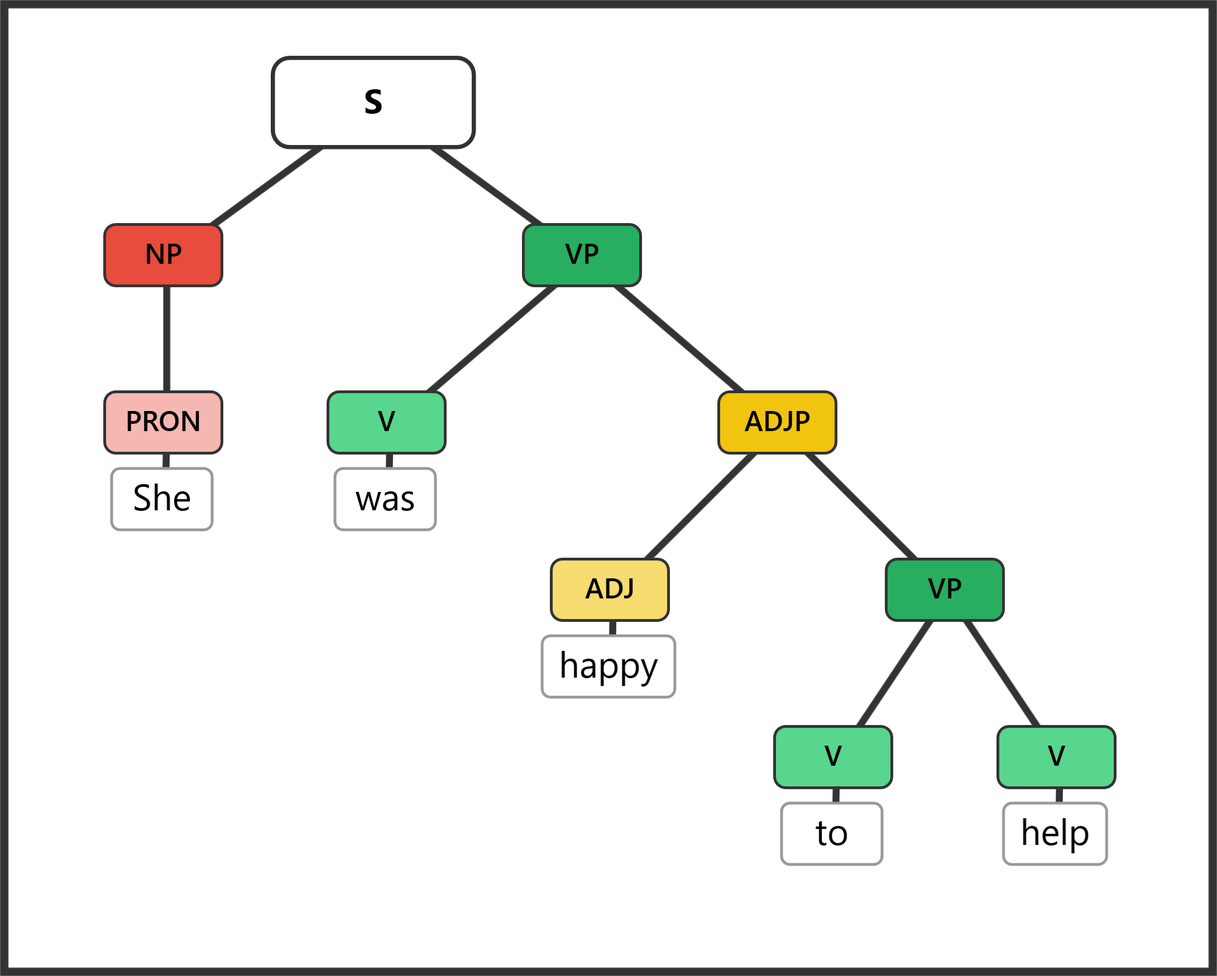
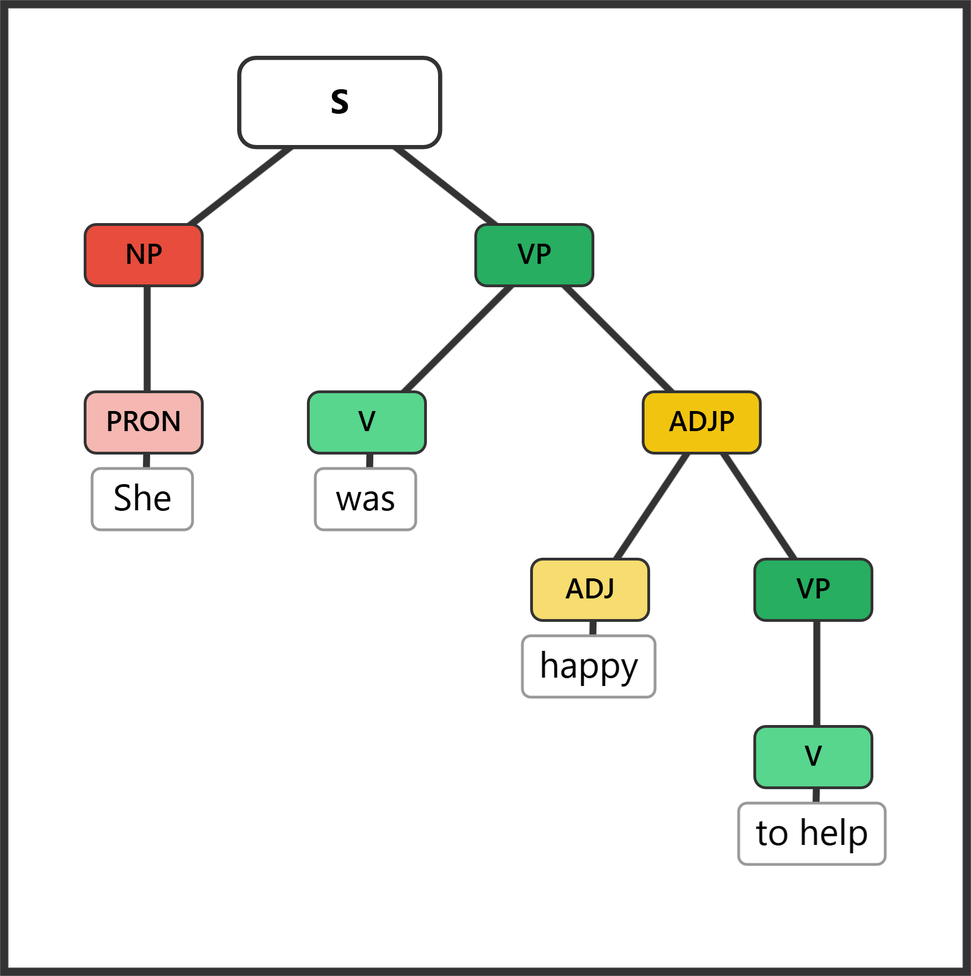
Treat infinitive "to V" as single V unit; flatten 12.10.1 B nested S
- All infinitive brackets: [V to] [V run] → [V to run] (4 tables + 2 trees)
- Updated sec-127 explanatory text to match single-unit convention
- ch12_table_019: Direct Object column shifted from 5→4
- ch12_table_010 (12.10.1 B): removed nested [S ...], flattened to
  [S [ADVP] [NP] [VP]] with roles at level 0

diff --git a/docs/lunr-pretext-search-index.js b/docs/lunr-pretext-search-index.js
@@ -1726,7 +1726,7 @@ var ptx_lunr_docs = [
   "type": "Section",
   "number": "12.2",
   "title": "Structures That Function as Adverbials",
-  "body": " Structures That Function as Adverbials  One of the most important insights of the form-vs-function framework is that a single grammatical role can be filled by many different structural forms. The adverbial function is a prime example. Consider three sentences: She arrived quickly.  She arrived at noon.  She arrived when the bell rang. In all three, the final element answers the same question—how or when she arrived—and all three occupy the adverbial slot in the clause. But their forms are completely different: an adverb phrase, a prepositional phrase, and a dependent clause. The seven structures listed below are all legitimate adverbials in English.   1. Adverb Phrases   The prototypical adverbial is an adverb phrase—a single adverb or an adverb with a degree modifier. Adverb phrases typically express manner ( quietly ), time ( soon ), frequency ( often ), or degree ( very ). Because adverbs are the form class most closely associated with the adverbial function, students sometimes assume that only adverbs can be adverbials. The rest of this section shows why that assumption is far too narrow. Adverb phrases can also be modified by degree words to create multi-word phrases: very carefully , quite often , remarkably quickly .   She spoke quietly . (manner)  He arrived very late . (time)  They finished remarkably quickly . (manner)    Multi-level labeling table for \"She ran quickly\"    Syntax tree for \"She ran quickly\" showing an AdvP adverbial attached to the VP   [S [NP [PRON She]] [VP [V ran] [ADVP [ADV quickly]]]]   2. Prepositional Phrases   Prepositional phrases are the most versatile adverbial form, capable of filling nearly every semantic role—place, time, manner, reason, purpose, and more. A preposition links a noun phrase to the rest of the clause, and the resulting PP slots into the verb phrase as an adverbial modifier. Because English has dozens of prepositions, each selecting for different meanings, PPs are by far the most common adverbial structure in both speech and writing. When you see a PP inside a verb phrase that is not a complement required by the verb, it is almost certainly functioning as an adverbial.   She works in the city . (place)  He arrived at noon . (time)  They spoke with enthusiasm . (manner)    Multi-level labeling table for \"He works in the city\"    Syntax tree for \"He works in the city\" showing a PP place adverbial inside the VP   [S [NP [PRON He]] [VP [V works] [PP [PREP in] [NP [DET the] [N city]]]]]   3. Noun Phrases (Temporal\/Spatial)   Certain noun phrases function adverbially without a preposition, especially those indicating time, direction, or extent. Expressions like yesterday , last week , and every morning occupy the adverbial slot even though their form is nominal. This can be surprising: a noun phrase is filling a modifier role rather than a subject or object role. The pattern is limited mainly to temporal and directional expressions—you cannot say She spoke the library to mean \"at the library\"—but within that domain it is extremely common in everyday English.   She arrived yesterday . (time)  They met last week . (time)  The bird flew north . (direction)    Multi-level labeling table for \"sleep every day\"    Syntax tree for \"I sleep every day\" showing noun phrase as adverbial   [S [NP [PRON I]] [VP [V sleep] [NP [DET every] [N day]]]]   4. Infinitive Phrases   Infinitive phrases can function as adverbials, and when they do, they almost always express purpose—answering the question why? or for what reason? The marker to followed by the base form of a verb creates a non-finite clause that modifies the main verb. Adverbial infinitives can appear in final position ( She left early to catch the train ) or in initial position for emphasis ( To understand the problem, you must read the data ). Because infinitive phrases can also function as subjects or complements, identifying the adverbial use requires checking whether the infinitive answers a purpose question about the verb rather than filling a noun slot.   She came to help . (purpose)  He studied hard to pass the exam . (purpose)  To succeed , you must practice. (purpose)    Multi-level labeling table for \"went to run\"    Syntax tree for \"I went to run\" showing infinitive as adverbial   [S [NP [PRON I]] [VP [V went] [VP [V to] [V run]]]]   5. Participial Phrases   Participial phrases—built on present participles ( -ing ) or past participles ( -ed\/-en )—can function adverbially, typically expressing reason, time, or attendant circumstances. Unlike adverb phrases and PPs, participial adverbials are non-finite clauses: they contain a verb form but lack a tense marker and a grammatical subject. The understood subject is normally the subject of the main clause, which is why a mismatch produces a dangling modifier (covered in ). Participial adverbials appear most often in initial position, set off by a comma, and give writing a more formal or literary texture.   Knowing the answer , she raised her hand. (reason)  He left, having finished his work . (time\/reason)  Exhausted , she fell asleep. (reason)    Multi-level labeling table for \"left running\"    Syntax tree for \"I left running\" showing participle as adverbial   [S [NP [PRON I]] [VP [V left] [VP [V running]]]]   6. Conjunctive Adverbs   Conjunctive adverbs ( however, therefore, nevertheless, moreover ) function adverbially while also signaling a logical relationship between ideas. Despite their name, conjunctive adverbs are adverbs, not conjunctions—they modify the clause they appear in rather than grammatically joining two clauses the way a coordinating or subordinating conjunction does. When two independent clauses are linked by a conjunctive adverb, the clauses must be separated by a semicolon or a period; a comma alone produces a comma splice. Conjunctive adverbs are also mobile within their clause— however can appear at the beginning, middle, or end—which is a key test distinguishing them from true conjunctions. For a full treatment of how conjunctive adverbs interact with sentence structure and punctuation, see .   She was tired. However , she continued.  The evidence is strong. Therefore , we should proceed.    7. Adverbial Clauses   Entire dependent clauses introduced by subordinating conjunctions function as adverbials. An adverbial clause contains a subject, a verb, and often its own complements—it is a full clause, but the subordinating conjunction ( when, because, although, if, while, after ) marks it as dependent and signals its semantic role. Adverbial clauses can express time, reason, condition, concession, purpose, and result, making them the most semantically varied adverbial structure. They appear freely in initial position (followed by a comma) or final position (typically without a comma). Adverbial clauses are covered in detail in alongside other clause types. Here is a brief overview:   When the bell rang , students left. (time)  She succeeded because she worked hard . (reason)  Although it rained , we continued. (concession)  If you need help , call me. (condition)    Multi-level labeling table for \"When the class ended students left\"    Syntax tree for \"When the class ended, students left\" showing an adverb clause of time   [S [DC [SUB When] [NP [DET the] [N class]] [VP [V ended]]] [IC [NP [N students]] [VP [V left]]]]  "
+  "body": " Structures That Function as Adverbials  One of the most important insights of the form-vs-function framework is that a single grammatical role can be filled by many different structural forms. The adverbial function is a prime example. Consider three sentences: She arrived quickly.  She arrived at noon.  She arrived when the bell rang. In all three, the final element answers the same question—how or when she arrived—and all three occupy the adverbial slot in the clause. But their forms are completely different: an adverb phrase, a prepositional phrase, and a dependent clause. The seven structures listed below are all legitimate adverbials in English.   1. Adverb Phrases   The prototypical adverbial is an adverb phrase—a single adverb or an adverb with a degree modifier. Adverb phrases typically express manner ( quietly ), time ( soon ), frequency ( often ), or degree ( very ). Because adverbs are the form class most closely associated with the adverbial function, students sometimes assume that only adverbs can be adverbials. The rest of this section shows why that assumption is far too narrow. Adverb phrases can also be modified by degree words to create multi-word phrases: very carefully , quite often , remarkably quickly .   She spoke quietly . (manner)  He arrived very late . (time)  They finished remarkably quickly . (manner)    Multi-level labeling table for \"She ran quickly\"    Syntax tree for \"She ran quickly\" showing an AdvP adverbial attached to the VP   [S [NP [PRON She]] [VP [V ran] [ADVP [ADV quickly]]]]   2. Prepositional Phrases   Prepositional phrases are the most versatile adverbial form, capable of filling nearly every semantic role—place, time, manner, reason, purpose, and more. A preposition links a noun phrase to the rest of the clause, and the resulting PP slots into the verb phrase as an adverbial modifier. Because English has dozens of prepositions, each selecting for different meanings, PPs are by far the most common adverbial structure in both speech and writing. When you see a PP inside a verb phrase that is not a complement required by the verb, it is almost certainly functioning as an adverbial.   She works in the city . (place)  He arrived at noon . (time)  They spoke with enthusiasm . (manner)    Multi-level labeling table for \"He works in the city\"    Syntax tree for \"He works in the city\" showing a PP place adverbial inside the VP   [S [NP [PRON He]] [VP [V works] [PP [PREP in] [NP [DET the] [N city]]]]]   3. Noun Phrases (Temporal\/Spatial)   Certain noun phrases function adverbially without a preposition, especially those indicating time, direction, or extent. Expressions like yesterday , last week , and every morning occupy the adverbial slot even though their form is nominal. This can be surprising: a noun phrase is filling a modifier role rather than a subject or object role. The pattern is limited mainly to temporal and directional expressions—you cannot say She spoke the library to mean \"at the library\"—but within that domain it is extremely common in everyday English.   She arrived yesterday . (time)  They met last week . (time)  The bird flew north . (direction)    Multi-level labeling table for \"sleep every day\"    Syntax tree for \"I sleep every day\" showing noun phrase as adverbial   [S [NP [PRON I]] [VP [V sleep] [NP [DET every] [N day]]]]   4. Infinitive Phrases   Infinitive phrases can function as adverbials, and when they do, they almost always express purpose—answering the question why? or for what reason? The marker to followed by the base form of a verb creates a non-finite clause that modifies the main verb. Adverbial infinitives can appear in final position ( She left early to catch the train ) or in initial position for emphasis ( To understand the problem, you must read the data ). Because infinitive phrases can also function as subjects or complements, identifying the adverbial use requires checking whether the infinitive answers a purpose question about the verb rather than filling a noun slot.   She came to help . (purpose)  He studied hard to pass the exam . (purpose)  To succeed , you must practice. (purpose)    Multi-level labeling table for \"went to run\"    Syntax tree for \"I went to run\" showing infinitive as adverbial   [S [NP [PRON I]] [VP [V went] [VP [V to run]]]]   5. Participial Phrases   Participial phrases—built on present participles ( -ing ) or past participles ( -ed\/-en )—can function adverbially, typically expressing reason, time, or attendant circumstances. Unlike adverb phrases and PPs, participial adverbials are non-finite clauses: they contain a verb form but lack a tense marker and a grammatical subject. The understood subject is normally the subject of the main clause, which is why a mismatch produces a dangling modifier (covered in ). Participial adverbials appear most often in initial position, set off by a comma, and give writing a more formal or literary texture.   Knowing the answer , she raised her hand. (reason)  He left, having finished his work . (time\/reason)  Exhausted , she fell asleep. (reason)    Multi-level labeling table for \"left running\"    Syntax tree for \"I left running\" showing participle as adverbial   [S [NP [PRON I]] [VP [V left] [VP [V running]]]]   6. Conjunctive Adverbs   Conjunctive adverbs ( however, therefore, nevertheless, moreover ) function adverbially while also signaling a logical relationship between ideas. Despite their name, conjunctive adverbs are adverbs, not conjunctions—they modify the clause they appear in rather than grammatically joining two clauses the way a coordinating or subordinating conjunction does. When two independent clauses are linked by a conjunctive adverb, the clauses must be separated by a semicolon or a period; a comma alone produces a comma splice. Conjunctive adverbs are also mobile within their clause— however can appear at the beginning, middle, or end—which is a key test distinguishing them from true conjunctions. For a full treatment of how conjunctive adverbs interact with sentence structure and punctuation, see .   She was tired. However , she continued.  The evidence is strong. Therefore , we should proceed.    7. Adverbial Clauses   Entire dependent clauses introduced by subordinating conjunctions function as adverbials. An adverbial clause contains a subject, a verb, and often its own complements—it is a full clause, but the subordinating conjunction ( when, because, although, if, while, after ) marks it as dependent and signals its semantic role. Adverbial clauses can express time, reason, condition, concession, purpose, and result, making them the most semantically varied adverbial structure. They appear freely in initial position (followed by a comma) or final position (typically without a comma). Adverbial clauses are covered in detail in alongside other clause types. Here is a brief overview:   When the bell rang , students left. (time)  She succeeded because she worked hard . (reason)  Although it rained , we continued. (concession)  If you need help , call me. (condition)    Multi-level labeling table for \"When the class ended students left\"    Syntax tree for \"When the class ended, students left\" showing an adverb clause of time   [S [DC [SUB When] [NP [DET the] [N class]] [VP [V ended]]] [IC [NP [N students]] [VP [V left]]]]  "
 },
 {
   "id": "ch-12-adverbials-sec-123",
@@ -1762,7 +1762,7 @@ var ptx_lunr_docs = [
   "type": "Section",
   "number": "12.6",
   "title": "Infinitive Phrase Adverbials",
-  "body": " Infinitive Phrase Adverbials  Infinitive phrases— to followed by the base form of a verb—can fill several grammatical roles. In Chapter 14 you will see them as nominals (subjects, objects). Here the focus is on their adverbial use, both as modifiers of verbs (expressing purpose) and as modifiers of adjectives.   The Infinitive Form   In many languages, the infinitive is a single word—a specific verb form with its own ending. Spanish has correr (\"to run\"), French has courir , German has laufen . In those languages, the infinitive is one inflected form. English works differently: the infinitive is a two-word construction—the marker to plus the base form of the verb. There is no special verb ending; to run and run use the same base form. In our labeling system, we treat the entire infinitive phrase as a VP, with to labeled as V alongside the main verb:   to run → VP containing V( to ) + V( run )  to pass the exam → VP containing V( to ) + V( pass ) + NP( the exam )    Formation   Adverbial infinitive phrase = to + base verb + (complements\/modifiers). The expanded form in order to makes the purpose meaning explicit:   She came to help .  He studied hard to pass the exam .  To succeed , you must practice daily.  She saved money in order to buy a car .    Purpose vs. Other Infinitive Functions   Not every infinitive is adverbial. The purpose test is straightforward: can you paraphrase with in order to ? If yes, it is an adverbial of purpose. If not, it is likely nominal (Chapter 14) or adjectival (Chapter 13).   He ran to catch the bus . → He ran in order to catch the bus . ✓ (adverbial—purpose)  She wants to leave . → She wants in order to leave. ✗ (nominal—direct object)  She has a book to read . → She has a book in order to read. ✗ (adjectival—modifies book )    Multi-level labeling table for \"He studied hard to pass the exam\"    Syntax tree for \"He studied hard to pass the exam\" showing an infinitive VP as adverbial of purpose   [S [NP [PRON He]] [VP [V studied] [ADVP [ADV hard]] [VP [V to] [V pass] [NP [DET the] [N exam]]]]]   Position   Purpose infinitives appear most naturally in final position but can be fronted for emphasis: To succeed in this program , you must commit to daily practice. When fronted, a comma follows the infinitive phrase.   Infinitives Modifying Adjectives   Infinitive phrases do not only modify verbs. They can also appear after adjectives, where they function as adverbials telling in what way or under what conditions the adjective applies. In these cases, the infinitive VP sits inside the adjective phrase:   She was happy to help . (happy in what way?)  The problem is easy to solve . (easy in what respect?)  He seemed reluctant to answer . (reluctant to do what?)  They were ready to leave . (ready for what?)   This pattern is very common in English. The adjective provides the evaluation, and the infinitive specifies the action that the evaluation applies to. Many adjectives that describe emotional states ( happy, eager, reluctant, afraid ) or qualities of difficulty ( easy, hard, difficult, impossible ) take infinitive complements in this way.   Multi-level labeling table for \"She was happy to help\"    Syntax tree for \"She was happy to help\" showing an infinitive VP inside an adjective phrase   [S [NP [PRON She]] [VP [V was] [ADJP [ADJ happy] [VP [V to] [V help]]]]]  "
+  "body": " Infinitive Phrase Adverbials  Infinitive phrases— to followed by the base form of a verb—can fill several grammatical roles. In Chapter 14 you will see them as nominals (subjects, objects). Here the focus is on their adverbial use, both as modifiers of verbs (expressing purpose) and as modifiers of adjectives.   The Infinitive Form   In many languages, the infinitive is a single word—a specific verb form with its own ending. Spanish has correr (\"to run\"), French has courir , German has laufen . In those languages, the infinitive is one inflected form. English works differently: the infinitive is a two-word construction—the marker to plus the base form of the verb. There is no special verb ending; to run and run use the same base form. In our labeling system, we treat the infinitive as a single unit—one V node containing both the marker and the verb—inside a VP:   to run → VP containing V( to run )  to pass the exam → VP containing V( to pass ) + NP( the exam )    Formation   Adverbial infinitive phrase = to + base verb + (complements\/modifiers). The expanded form in order to makes the purpose meaning explicit:   She came to help .  He studied hard to pass the exam .  To succeed , you must practice daily.  She saved money in order to buy a car .    Purpose vs. Other Infinitive Functions   Not every infinitive is adverbial. The purpose test is straightforward: can you paraphrase with in order to ? If yes, it is an adverbial of purpose. If not, it is likely nominal (Chapter 14) or adjectival (Chapter 13).   He ran to catch the bus . → He ran in order to catch the bus . ✓ (adverbial—purpose)  She wants to leave . → She wants in order to leave. ✗ (nominal—direct object)  She has a book to read . → She has a book in order to read. ✗ (adjectival—modifies book )    Multi-level labeling table for \"He studied hard to pass the exam\"    Syntax tree for \"He studied hard to pass the exam\" showing an infinitive VP as adverbial of purpose   [S [NP [PRON He]] [VP [V studied] [ADVP [ADV hard]] [VP [V to pass] [NP [DET the] [N exam]]]]]   Position   Purpose infinitives appear most naturally in final position but can be fronted for emphasis: To succeed in this program , you must commit to daily practice. When fronted, a comma follows the infinitive phrase.   Infinitives Modifying Adjectives   Infinitive phrases do not only modify verbs. They can also appear after adjectives, where they function as adverbials telling in what way or under what conditions the adjective applies. In these cases, the infinitive VP sits inside the adjective phrase:   She was happy to help . (happy in what way?)  The problem is easy to solve . (easy in what respect?)  He seemed reluctant to answer . (reluctant to do what?)  They were ready to leave . (ready for what?)   This pattern is very common in English. The adjective provides the evaluation, and the infinitive specifies the action that the evaluation applies to. Many adjectives that describe emotional states ( happy, eager, reluctant, afraid ) or qualities of difficulty ( easy, hard, difficult, impossible ) take infinitive complements in this way.   Multi-level labeling table for \"She was happy to help\"    Syntax tree for \"She was happy to help\" showing an infinitive VP inside an adjective phrase   [S [NP [PRON She]] [VP [V was] [ADJP [ADJ happy] [VP [V to help]]]]]  "
 },
 {
   "id": "ch-12-adverbials-sec-128",
@@ -1825,7 +1825,7 @@ var ptx_lunr_docs = [
   "type": "Section",
   "number": "12.10",
   "title": "Diagram Examples",
-  "body": " Diagram Examples  This section provides reference diagrams for adverbial structures introduced in this chapter.   Adverb as Adverbial   12.10.1 A: Adverb modifying verb: She spoke quietly.    Multi-level labeling table for \"She spoke quietly\"    Syntax tree for \"She spoke quietly\" showing adverb modifying verb   [S [NP [PRON She]] [VP [V spoke] [ADVP [ADV quietly]]]]   12.10.1 B: Sentence adverb: Unfortunately, she lost.    Multi-level labeling table for \"Unfortunately she lost\"    Syntax tree for \"Unfortunately, she lost\" showing sentence adverb   [S [ADVP [ADV Unfortunately]] [S [NP [PRON she]] [VP [V lost]]]]    PP as Adverbial   12.10.2 A: PP in VP (adverbial): She works at home.    Multi-level labeling table for \"She works at home\"    Syntax tree for \"She works at home\" showing PP as adverbial   [S [NP [PRON She]] [VP [V works] [PP [PREP at] [NP [N home]]]]]    Other Adverbial Structures   12.10.3 A: Noun functioning as adverbial: I sleep every day.    Multi-level labeling table for \"sleep every day\"    Syntax tree for \"I sleep every day\" showing noun phrase as adverbial   [S [NP [PRON I]] [VP [V sleep] [NP [DET every] [N day]]]]   12.10.3 B: Present participle as adverbial: I left running.    Multi-level labeling table for \"left running\"    Syntax tree for \"I left running\" showing participle as adverbial   [S [NP [PRON I]] [VP [V left] [VP [V running]]]]   12.10.3 C: Infinitive as adverbial: I went to run.    Multi-level labeling table for \"went to run\"    Syntax tree for \"I went to run\" showing infinitive as adverbial   [S [NP [PRON I]] [VP [V went] [VP [V to] [V run]]]]   12.10.3 D: Multiple adverbials: She spoke quietly in the library.    Multi-level labeling table for \"She spoke quietly in the library\"    Syntax tree for \"She spoke quietly in the library\" showing multiple adverbials   [S [NP [PRON She]] [VP [V spoke] [ADVP [ADV quietly]] [PP [PREP in] [NP [DET the] [N library]]]]]   "
+  "body": " Diagram Examples  This section provides reference diagrams for adverbial structures introduced in this chapter.   Adverb as Adverbial   12.10.1 A: Adverb modifying verb: She spoke quietly.    Multi-level labeling table for \"She spoke quietly\"    Syntax tree for \"She spoke quietly\" showing adverb modifying verb   [S [NP [PRON She]] [VP [V spoke] [ADVP [ADV quietly]]]]   12.10.1 B: Sentence adverb: Unfortunately, she lost.    Multi-level labeling table for \"Unfortunately she lost\"    Syntax tree for \"Unfortunately, she lost\" showing sentence adverb   [S [ADVP [ADV Unfortunately]] [NP [PRON she]] [VP [V lost]]]    PP as Adverbial   12.10.2 A: PP in VP (adverbial): She works at home.    Multi-level labeling table for \"She works at home\"    Syntax tree for \"She works at home\" showing PP as adverbial   [S [NP [PRON She]] [VP [V works] [PP [PREP at] [NP [N home]]]]]    Other Adverbial Structures   12.10.3 A: Noun functioning as adverbial: I sleep every day.    Multi-level labeling table for \"sleep every day\"    Syntax tree for \"I sleep every day\" showing noun phrase as adverbial   [S [NP [PRON I]] [VP [V sleep] [NP [DET every] [N day]]]]   12.10.3 B: Present participle as adverbial: I left running.    Multi-level labeling table for \"left running\"    Syntax tree for \"I left running\" showing participle as adverbial   [S [NP [PRON I]] [VP [V left] [VP [V running]]]]   12.10.3 C: Infinitive as adverbial: I went to run.    Multi-level labeling table for \"went to run\"    Syntax tree for \"I went to run\" showing infinitive as adverbial   [S [NP [PRON I]] [VP [V went] [VP [V to run]]]]   12.10.3 D: Multiple adverbials: She spoke quietly in the library.    Multi-level labeling table for \"She spoke quietly in the library\"    Syntax tree for \"She spoke quietly in the library\" showing multiple adverbials   [S [NP [PRON She]] [VP [V spoke] [ADVP [ADV quietly]] [PP [PREP in] [NP [DET the] [N library]]]]]   "
 },
 {
   "id": "ch-12-adverbials-15",

diff --git a/docs/ch-12-adverbials-sec-127.html b/docs/ch-12-adverbials-sec-127.html
@@ -853,18 +853,18 @@ section .tabular-box {
 <div class="para" id="ch-12-adverbials-sec-127-2">Infinitive phrases—<i class="foreign">to</i> followed by the base form of a verb—can fill several grammatical roles. In Chapter 14 you will see them as nominals (subjects, objects). Here the focus is on their adverbial use, both as modifiers of verbs (expressing purpose) and as modifiers of adjectives.<div class="autopermalink" data-description="Paragraph"><a href="#ch-12-adverbials-sec-127-2" title="Copy heading and permalink for Paragraph" aria-label="Copy heading and permalink for Paragraph">🔗</a></div>
 </div>
 <section class="paragraphs" id="ch-12-adverbials-sec-127-3"><h3 class="heading"><span class="title">The Infinitive Form.</span></h3>
-<div class="autopermalink" data-description="Paragraphs: The Infinitive Form"><a href="#ch-12-adverbials-sec-127-3" title="Copy heading and permalink for Paragraphs: The Infinitive Form" aria-label="Copy heading and permalink for Paragraphs: The Infinitive Form">🔗</a></div></section><div class="para" id="ch-12-adverbials-sec-127-4">In many languages, the infinitive is a single word—a specific verb form with its own ending. Spanish has <i class="foreign">correr</i> ("to run"), French has <i class="foreign">courir</i>, German has <i class="foreign">laufen</i>. In those languages, the infinitive is one inflected form. English works differently: the infinitive is a two-word construction—the marker <i class="foreign">to</i> plus the base form of the verb. There is no special verb ending; <i class="foreign">to run</i> and <i class="foreign">run</i> use the same base form. In our labeling system, we treat the entire infinitive phrase as a VP, with <i class="foreign">to</i> labeled as V alongside the main verb:<div class="autopermalink" data-description="Paragraph"><a href="#ch-12-adverbials-sec-127-4" title="Copy heading and permalink for Paragraph" aria-label="Copy heading and permalink for Paragraph">🔗</a></div>
+<div class="autopermalink" data-description="Paragraphs: The Infinitive Form"><a href="#ch-12-adverbials-sec-127-3" title="Copy heading and permalink for Paragraphs: The Infinitive Form" aria-label="Copy heading and permalink for Paragraphs: The Infinitive Form">🔗</a></div></section><div class="para" id="ch-12-adverbials-sec-127-4">In many languages, the infinitive is a single word—a specific verb form with its own ending. Spanish has <i class="foreign">correr</i> ("to run"), French has <i class="foreign">courir</i>, German has <i class="foreign">laufen</i>. In those languages, the infinitive is one inflected form. English works differently: the infinitive is a two-word construction—the marker <i class="foreign">to</i> plus the base form of the verb. There is no special verb ending; <i class="foreign">to run</i> and <i class="foreign">run</i> use the same base form. In our labeling system, we treat the infinitive as a single unit—one V node containing both the marker and the verb—inside a VP:<div class="autopermalink" data-description="Paragraph"><a href="#ch-12-adverbials-sec-127-4" title="Copy heading and permalink for Paragraph" aria-label="Copy heading and permalink for Paragraph">🔗</a></div>
 </div>
 <ul class="disc" id="ch-12-adverbials-sec-127-5">
 <li id="ch-12-adverbials-sec-127-5-1">
 <div class="para" id="ch-12-adverbials-sec-127-5-1-1">
-<i class="foreign">to run</i> → VP containing V(<i class="foreign">to</i>) + V(<i class="foreign">run</i>)<div class="autopermalink" data-description="Paragraph"><a href="#ch-12-adverbials-sec-127-5-1-1" title="Copy heading and permalink for Paragraph" aria-label="Copy heading and permalink for Paragraph">🔗</a></div>
+<i class="foreign">to run</i> → VP containing V(<i class="foreign">to run</i>)<div class="autopermalink" data-description="Paragraph"><a href="#ch-12-adverbials-sec-127-5-1-1" title="Copy heading and permalink for Paragraph" aria-label="Copy heading and permalink for Paragraph">🔗</a></div>
 </div>
 <div class="autopermalink" data-description="Item"><a href="#ch-12-adverbials-sec-127-5-1" title="Copy heading and permalink for Item" aria-label="Copy heading and permalink for Item">🔗</a></div>
 </li>
 <li id="ch-12-adverbials-sec-127-5-2">
 <div class="para" id="ch-12-adverbials-sec-127-5-2-1">
-<i class="foreign">to pass the exam</i> → VP containing V(<i class="foreign">to</i>) + V(<i class="foreign">pass</i>) + NP(<i class="foreign">the exam</i>)<div class="autopermalink" data-description="Paragraph"><a href="#ch-12-adverbials-sec-127-5-2-1" title="Copy heading and permalink for Paragraph" aria-label="Copy heading and permalink for Paragraph">🔗</a></div>
+<i class="foreign">to pass the exam</i> → VP containing V(<i class="foreign">to pass</i>) + NP(<i class="foreign">the exam</i>)<div class="autopermalink" data-description="Paragraph"><a href="#ch-12-adverbials-sec-127-5-2-1" title="Copy heading and permalink for Paragraph" aria-label="Copy heading and permalink for Paragraph">🔗</a></div>
 </div>
 <div class="autopermalink" data-description="Item"><a href="#ch-12-adverbials-sec-127-5-2" title="Copy heading and permalink for Item" aria-label="Copy heading and permalink for Item">🔗</a></div>
 </li>
@@ -924,7 +924,7 @@ section .tabular-box {
 <div class="image-box" style="width: 80%; margin-left: 10%; margin-right: 10%;"><img src="external/diagrams/new/ch12_table_019.png" class="contained" alt='Multi-level labeling table for "He studied hard to pass the exam"'></div>
 <div class="image-box" style="width: 55%; margin-left: 22.5%; margin-right: 22.5%;"><img src="external/diagrams/new/ch12_127_studied_to_pass.png" class="contained" alt='Syntax tree for "He studied hard to pass the exam" showing an infinitive VP as adverbial of purpose'></div>
 <div class="para" id="ch-12-adverbials-sec-127-14">
-<code class="code-inline tex2jax_ignore">[S [NP [PRON He]] [VP [V studied] [ADVP [ADV hard]] [VP [V to] [V pass] [NP [DET the] [N exam]]]]]</code><div class="autopermalink" data-description="Paragraph"><a href="#ch-12-adverbials-sec-127-14" title="Copy heading and permalink for Paragraph" aria-label="Copy heading and permalink for Paragraph">🔗</a></div>
+<code class="code-inline tex2jax_ignore">[S [NP [PRON He]] [VP [V studied] [ADVP [ADV hard]] [VP [V to pass] [NP [DET the] [N exam]]]]]</code><div class="autopermalink" data-description="Paragraph"><a href="#ch-12-adverbials-sec-127-14" title="Copy heading and permalink for Paragraph" aria-label="Copy heading and permalink for Paragraph">🔗</a></div>
 </div>
 <section class="paragraphs" id="ch-12-adverbials-sec-127-15"><h3 class="heading"><span class="title">Position.</span></h3>
 <div class="autopermalink" data-description="Paragraphs: Position"><a href="#ch-12-adverbials-sec-127-15" title="Copy heading and permalink for Paragraphs: Position" aria-label="Copy heading and permalink for Paragraphs: Position">🔗</a></div></section><div class="para" id="ch-12-adverbials-sec-127-16">Purpose infinitives appear most naturally in final position but can be fronted for emphasis: <i class="foreign"><em class="emphasis">To succeed in this program</em>, you must commit to daily practice.</i> When fronted, a comma follows the infinitive phrase.<div class="autopermalink" data-description="Paragraph"><a href="#ch-12-adverbials-sec-127-16" title="Copy heading and permalink for Paragraph" aria-label="Copy heading and permalink for Paragraph">🔗</a></div>
@@ -963,7 +963,7 @@ section .tabular-box {
 <div class="image-box" style="width: 55%; margin-left: 22.5%; margin-right: 22.5%;"><img src="external/diagrams/new/ch12_table_020.png" class="contained" alt='Multi-level labeling table for "She was happy to help"'></div>
 <div class="image-box" style="width: 40%; margin-left: 30%; margin-right: 30%;"><img src="external/diagrams/new/ch12_127_happy_to_help.png" class="contained" alt='Syntax tree for "She was happy to help" showing an infinitive VP inside an adjective phrase'></div>
 <div class="para" id="ch-12-adverbials-sec-127-23">
-<code class="code-inline tex2jax_ignore">[S [NP [PRON She]] [VP [V was] [ADJP [ADJ happy] [VP [V to] [V help]]]]]</code><div class="autopermalink" data-description="Paragraph"><a href="#ch-12-adverbials-sec-127-23" title="Copy heading and permalink for Paragraph" aria-label="Copy heading and permalink for Paragraph">🔗</a></div>
+<code class="code-inline tex2jax_ignore">[S [NP [PRON She]] [VP [V was] [ADJP [ADJ happy] [VP [V to help]]]]]</code><div class="autopermalink" data-description="Paragraph"><a href="#ch-12-adverbials-sec-127-23" title="Copy heading and permalink for Paragraph" aria-label="Copy heading and permalink for Paragraph">🔗</a></div>
 </div>
 <div class="autopermalink" data-description="Section 12.6: Infinitive Phrase Adverbials"><a href="#ch-12-adverbials-sec-127" title="Copy heading and permalink for Section 12.6: Infinitive Phrase Adverbials" aria-label="Copy heading and permalink for Section 12.6: Infinitive Phrase Adverbials">🔗</a></div></section></div>
 <div id="ptx-content-footer" class="ptx-content-footer">

diff --git a/docs/ch-12-diagram-examples.html b/docs/ch-12-diagram-examples.html
@@ -865,7 +865,7 @@ section .tabular-box {
 <div class="autopermalink" data-description="Paragraphs: 12.10.1 B: Sentence adverb: Unfortunately, she lost."><a href="#ch-12-diagrams-adverb-6" title="Copy heading and permalink for Paragraphs: 12.10.1 B: Sentence adverb: Unfortunately, she lost." aria-label="Copy heading and permalink for Paragraphs: 12.10.1 B: Sentence adverb: Unfortunately, she lost.">🔗</a></div></section><div class="image-box" style="width: 50%; margin-left: 25%; margin-right: 25%;"><img src="external/diagrams/new/ch12_table_010.png" class="contained" alt='Multi-level labeling table for "Unfortunately she lost"'></div>
 <div class="image-box" style="width: 40%; margin-left: 30%; margin-right: 30%;"><img src="external/diagrams/new/ch10_sentence_adverb.png" class="contained" alt='Syntax tree for "Unfortunately, she lost" showing sentence adverb'></div>
 <div class="para" id="ch-12-diagrams-adverb-9">
-<code class="code-inline tex2jax_ignore">[S [ADVP [ADV Unfortunately]] [S [NP [PRON she]] [VP [V lost]]]]</code><div class="autopermalink" data-description="Paragraph"><a href="#ch-12-diagrams-adverb-9" title="Copy heading and permalink for Paragraph" aria-label="Copy heading and permalink for Paragraph">🔗</a></div>
+<code class="code-inline tex2jax_ignore">[S [ADVP [ADV Unfortunately]] [NP [PRON she]] [VP [V lost]]]</code><div class="autopermalink" data-description="Paragraph"><a href="#ch-12-diagrams-adverb-9" title="Copy heading and permalink for Paragraph" aria-label="Copy heading and permalink for Paragraph">🔗</a></div>
 </div>
 <div class="autopermalink" data-description="Subsection 12.10.1: Adverb as Adverbial"><a href="#ch-12-diagrams-adverb" title="Copy heading and permalink for Subsection 12.10.1: Adverb as Adverbial" aria-label="Copy heading and permalink for Subsection 12.10.1: Adverb as Adverbial">🔗</a></div></section><section class="subsection" id="ch-12-diagrams-pp"><h3 class="heading hide-type">
 <span class="type">Subsection</span><span class="space heading-divison-mark heading-divison-mark__space"> </span><span class="codenumber">12.10.2</span><span class="space heading-divison-mark heading-divison-mark__space"> </span><span class="title">PP as Adverbial</span>
@@ -895,7 +895,7 @@ section .tabular-box {
 <div class="autopermalink" data-description="Paragraphs: 12.10.3 C: Infinitive as adverbial: I went to run."><a href="#ch-12-diagrams-other-10" title="Copy heading and permalink for Paragraphs: 12.10.3 C: Infinitive as adverbial: I went to run." aria-label="Copy heading and permalink for Paragraphs: 12.10.3 C: Infinitive as adverbial: I went to run.">🔗</a></div></section><div class="image-box" style="width: 50%; margin-left: 25%; margin-right: 25%;"><img src="external/diagrams/new/ch12_table_014.png" class="contained" alt='Multi-level labeling table for "went to run"'></div>
 <div class="image-box" style="width: 40%; margin-left: 30%; margin-right: 30%;"><img src="external/diagrams/new/ch12_infinitive_adverbial.png" class="contained" alt='Syntax tree for "I went to run" showing infinitive as adverbial'></div>
 <div class="para" id="ch-12-diagrams-other-13">
-<code class="code-inline tex2jax_ignore">[S [NP [PRON I]] [VP [V went] [VP [V to] [V run]]]]</code><div class="autopermalink" data-description="Paragraph"><a href="#ch-12-diagrams-other-13" title="Copy heading and permalink for Paragraph" aria-label="Copy heading and permalink for Paragraph">🔗</a></div>
+<code class="code-inline tex2jax_ignore">[S [NP [PRON I]] [VP [V went] [VP [V to run]]]]</code><div class="autopermalink" data-description="Paragraph"><a href="#ch-12-diagrams-other-13" title="Copy heading and permalink for Paragraph" aria-label="Copy heading and permalink for Paragraph">🔗</a></div>
 </div>
 <section class="paragraphs" id="ch-12-diagrams-other-14"><h4 class="heading"><span class="title">12.10.3 D: Multiple adverbials: She spoke quietly in the library..</span></h4>
 <div class="autopermalink" data-description="Paragraphs: 12.10.3 D: Multiple adverbials: She spoke quietly in the library."><a href="#ch-12-diagrams-other-14" title="Copy heading and permalink for Paragraphs: 12.10.3 D: Multiple adverbials: She spoke quietly in the library." aria-label="Copy heading and permalink for Paragraphs: 12.10.3 D: Multiple adverbials: She spoke quietly in the library.">🔗</a></div></section><div class="image-box" style="width: 80%; margin-left: 10%; margin-right: 10%;"><img src="external/diagrams/new/ch12_table_015.png" class="contained" alt='Multi-level labeling table for "She spoke quietly in the library"'></div>

diff --git a/docs/ch-12-adverbials-sec-122.html b/docs/ch-12-adverbials-sec-122.html
@@ -962,7 +962,7 @@ section .tabular-box {
 <div class="image-box" style="width: 50%; margin-left: 25%; margin-right: 25%;"><img src="external/diagrams/new/ch12_table_004.png" class="contained" alt='Multi-level labeling table for "went to run"'></div>
 <div class="image-box" style="width: 40%; margin-left: 30%; margin-right: 30%;"><img src="external/diagrams/new/ch12_infinitive_adverbial.png" class="contained" alt='Syntax tree for "I went to run" showing infinitive as adverbial'></div>
 <div class="para" id="ch-12-adverbials-sec-122-26">
-<code class="code-inline tex2jax_ignore">[S [NP [PRON I]] [VP [V went] [VP [V to] [V run]]]]</code><div class="autopermalink" data-description="Paragraph"><a href="#ch-12-adverbials-sec-122-26" title="Copy heading and permalink for Paragraph" aria-label="Copy heading and permalink for Paragraph">🔗</a></div>
+<code class="code-inline tex2jax_ignore">[S [NP [PRON I]] [VP [V went] [VP [V to run]]]]</code><div class="autopermalink" data-description="Paragraph"><a href="#ch-12-adverbials-sec-122-26" title="Copy heading and permalink for Paragraph" aria-label="Copy heading and permalink for Paragraph">🔗</a></div>
 </div>
 <section class="paragraphs" id="ch-12-adverbials-sec-122-27"><h3 class="heading"><span class="title">5. Participial Phrases.</span></h3>
 <div class="autopermalink" data-description="Paragraphs: 5. Participial Phrases"><a href="#ch-12-adverbials-sec-122-27" title="Copy heading and permalink for Paragraphs: 5. Participial Phrases" aria-label="Copy heading and permalink for Paragraphs: 5. Participial Phrases">🔗</a></div></section><div class="para" id="ch-12-adverbials-sec-122-28">Participial phrases—built on present participles (<i class="foreign">-ing</i>) or past participles (<i class="foreign">-ed/-en</i>)—can function adverbially, typically expressing reason, time, or attendant circumstances. Unlike adverb phrases and PPs, participial adverbials are non-finite clauses: they contain a verb form but lack a tense marker and a grammatical subject. The understood subject is normally the subject of the main clause, which is why a mismatch produces a dangling modifier (covered in <a href="ch-18-clarity-and-readability.html" class="internal" title="Chapter 18: Clarity and Readability">Clarity and Readability</a>). Participial adverbials appear most often in initial position, set off by a comma, and give writing a more formal or literary texture.<div class="autopermalink" data-description="Paragraph"><a href="#ch-12-adverbials-sec-122-28" title="Copy heading and permalink for Paragraph" aria-label="Copy heading and permalink for Paragraph">🔗</a></div>

diff --git a/docs/index.html b/docs/index.html
@@ -2,7 +2,7 @@
 <html>
 <!--********************************************-->
 <!--*       Generated from PreTeXt source      *-->
-<!--*       on 2026-04-15T15:13:05-06:00       *-->
+<!--*       on 2026-04-15T15:20:19-06:00       *-->
 <!--*   A recent stable commit (2022-07-01):   *-->
 <!--* 6c761d3dba23af92cba35001c852aac04ae99a5f *-->
 <!--*                                          *-->

diff --git a/scripts/generate_ch12_tree_diagrams.py b/scripts/generate_ch12_tree_diagrams.py
@@ -30,10 +30,10 @@ DIAGRAMS = {
     "ch12_126_last_week_met": "[S [NP [ADJP [ADJ Last]] [N week]] [NP [DET the] [N students]] [VP [V met]]]",
 
     # 12.6 Infinitive: He studied hard to pass the exam
-    "ch12_127_studied_to_pass": "[S [NP [PRON He]] [VP [V studied] [ADVP [ADV hard]] [VP [V to] [V pass] [NP [DET the] [N exam]]]]]",
+    "ch12_127_studied_to_pass": "[S [NP [PRON He]] [VP [V studied] [ADVP [ADV hard]] [VP [V to pass] [NP [DET the] [N exam]]]]]",
 
     # 12.6 Infinitive+Adj: She was happy to help
-    "ch12_127_happy_to_help": "[S [NP [PRON She]] [VP [V was] [ADJP [ADJ happy] [VP [V to] [V help]]]]]",
+    "ch12_127_happy_to_help": "[S [NP [PRON She]] [VP [V was] [ADJP [ADJ happy] [VP [V to help]]]]]",
 
     # 12.7 Present participle: Knowing the answer she raised her hand
     "ch12_128_knowing_answer": "[S [VP [V Knowing] [NP [DET the] [N answer]]] [NP [PRON she]] [VP [V raised] [NP [DET her] [N hand]]]]",
